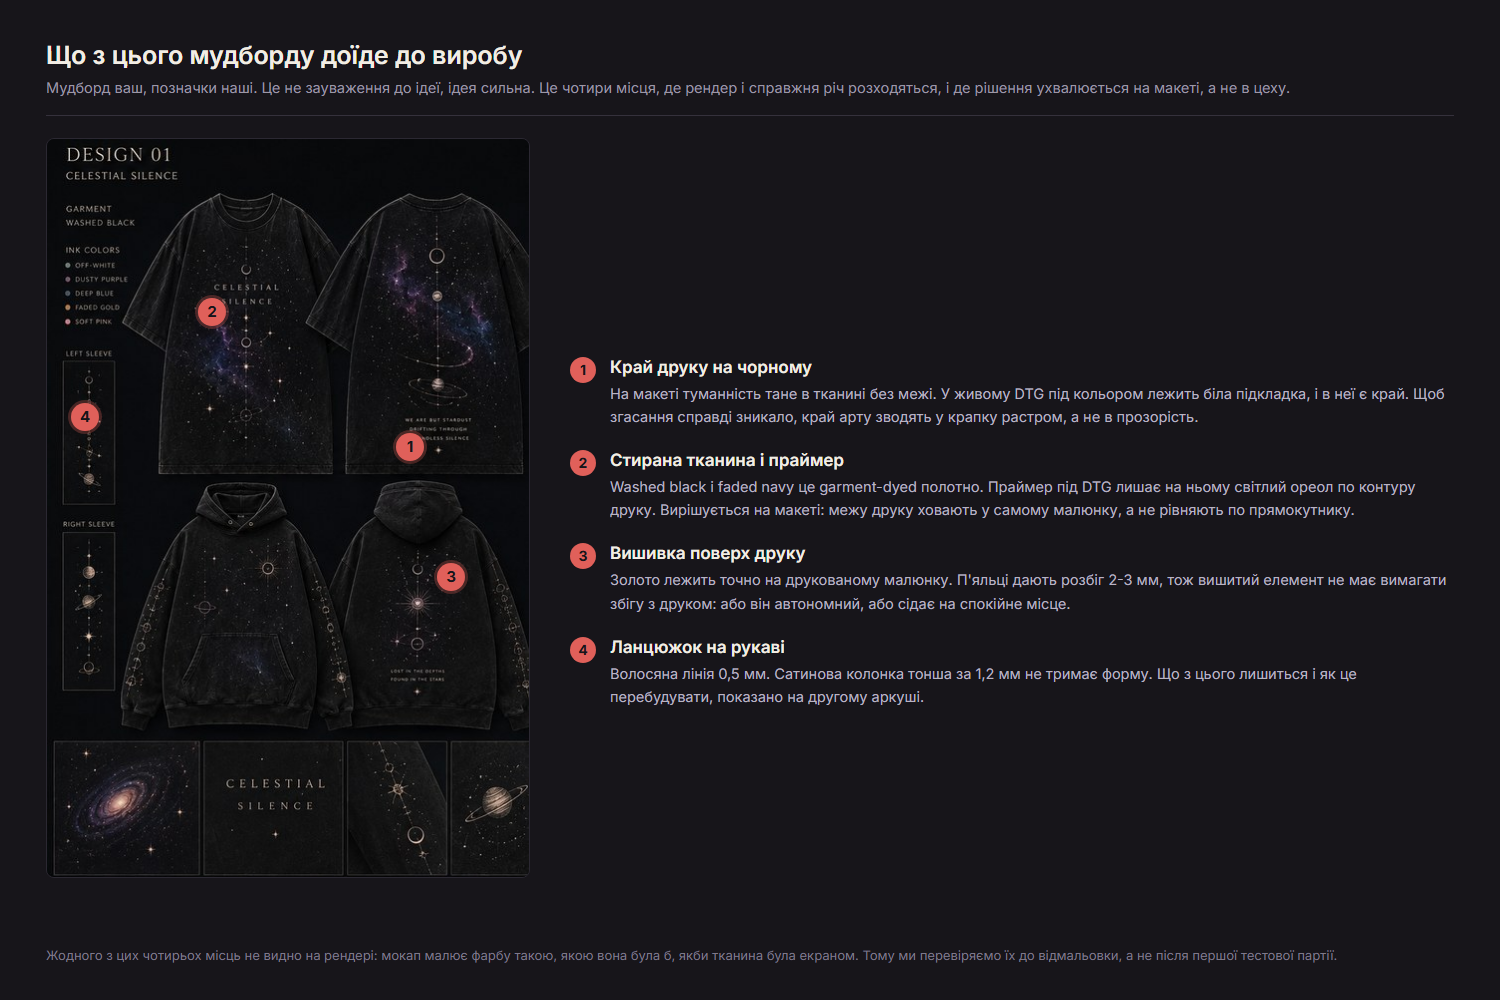
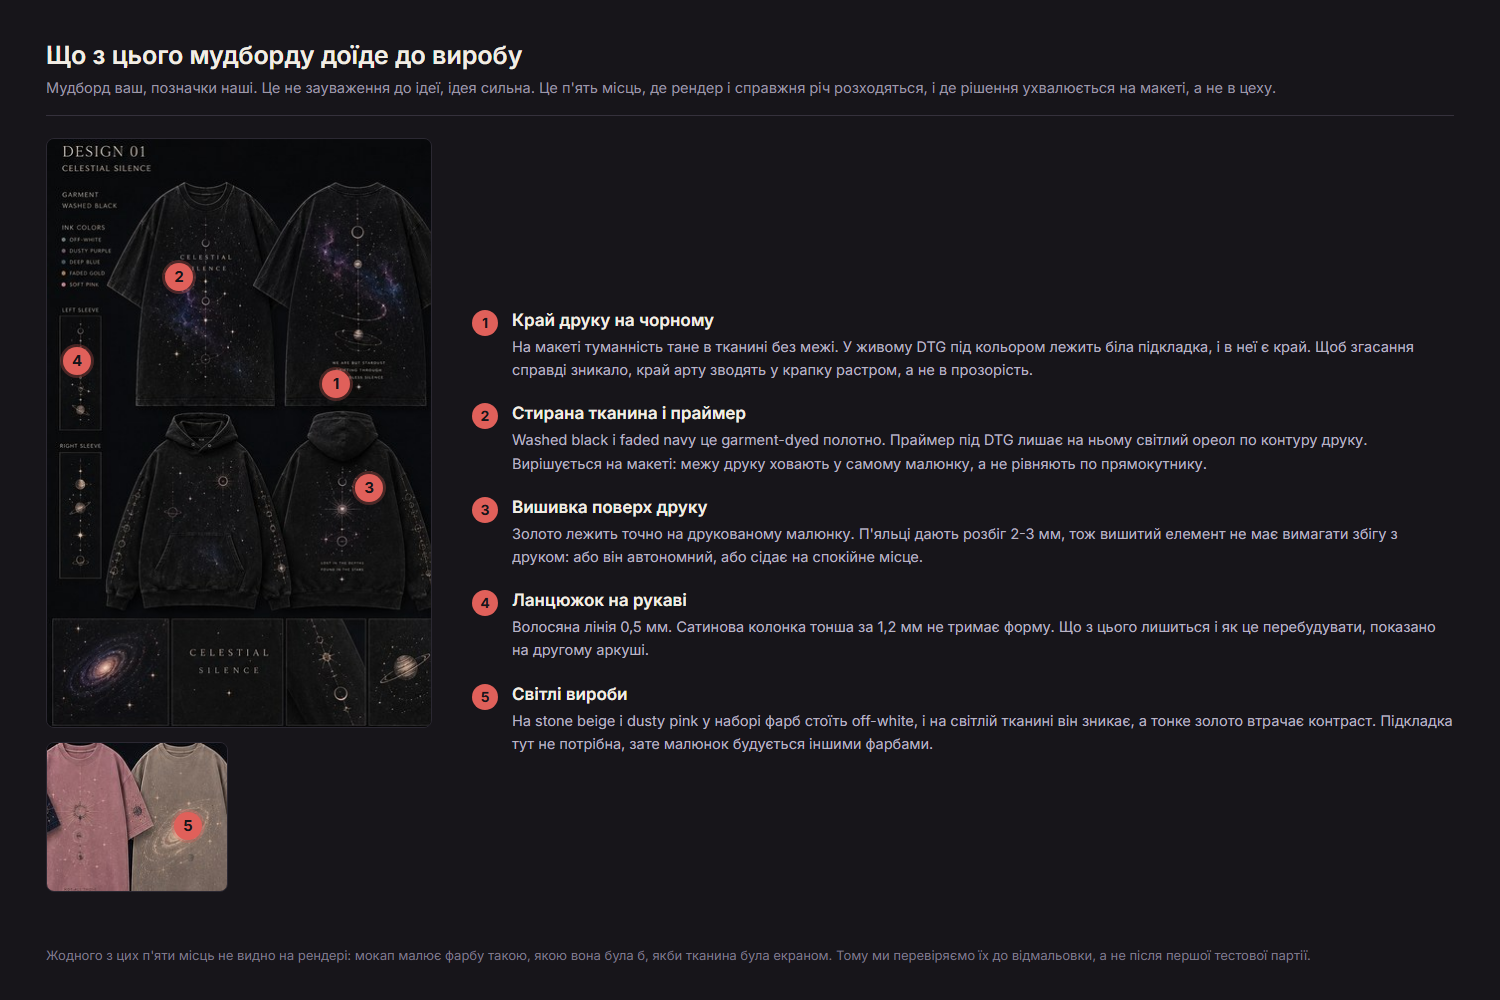
Correct note count and replace left sheet image
Update s/space-merch-prints/index.html to change the note from “four” to “five” spots (uses HTML entity for apostrophe). Replace the binary asset s/space-merch-prints/sheet-left.png with an updated version.

diff --git a/s/space-merch-prints/index.html b/s/space-merch-prints/index.html
@@ -51,7 +51,7 @@
 <body>
   <div class="wrap">
     <h1>Космічний мерч: що з мудборду доїде до виробу</h1>
-    <p class="note">Два аркуші до проєкту #1646976. Перший: чотири місця, де рендер і справжній виріб розходяться. Другий: наш власний ланцюжок на рукав і поріг вишивки, порахований кодом.</p>
+    <p class="note">Два аркуші до проєкту #1646976. Перший: п&#x27;ять місць, де рендер і справжній виріб розходяться. Другий: наш власний ланцюжок на рукав і поріг вишивки, порахований кодом.</p>
 
     <figure><img src="sheet-left.png" alt="Космічний мерч: що з мудборду доїде до виробу"></figure>
     <figure><img src="sheet-right.png" alt="Космічний мерч: що з мудборду доїде до виробу"></figure>
